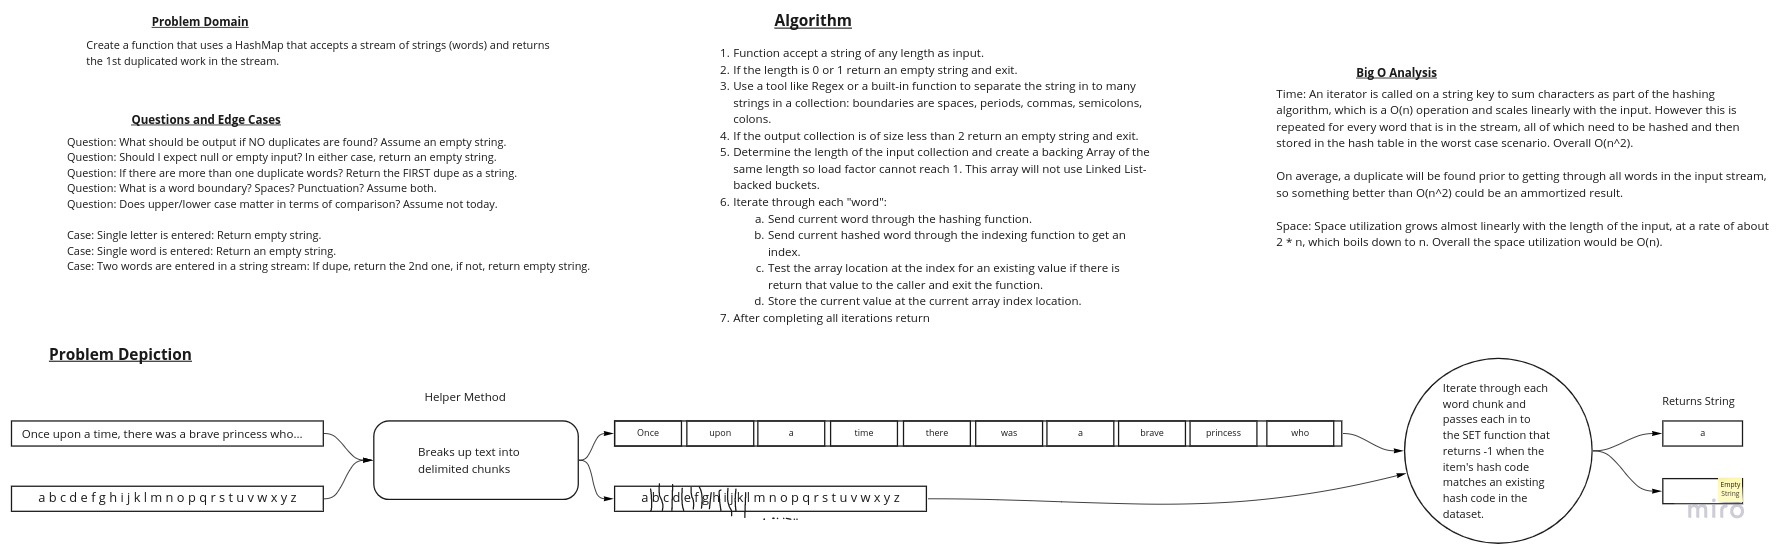
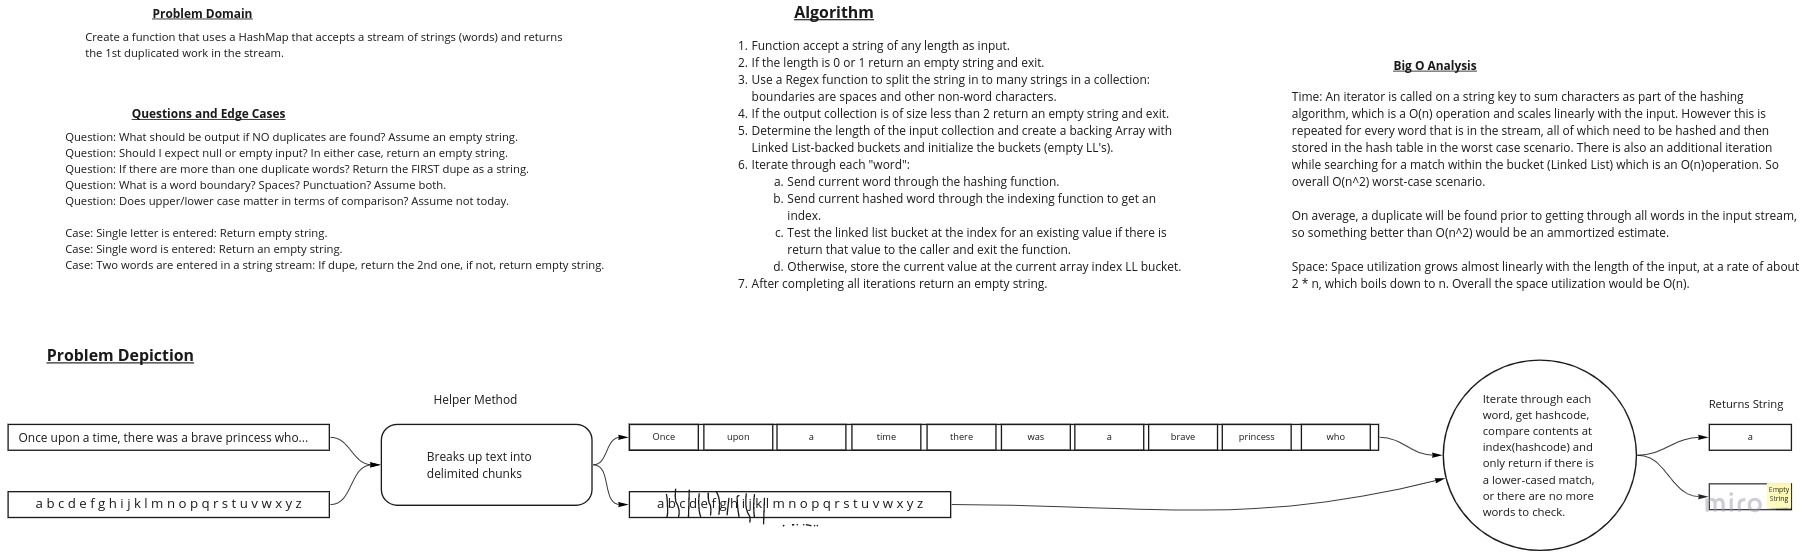
refactored repeated-word challenge to complete it.

diff --git a/java/datastructures/lib/src/main/java/simpleStringHashTable/SimpleStringHashTable.java b/java/datastructures/lib/src/main/java/simpleStringHashTable/SimpleStringHashTable.java
@@ -1,10 +1,12 @@
 package simpleStringHashTable;
 
 import java.util.ArrayList;
+import java.util.LinkedList;
+import java.util.Locale;
 
 public class SimpleStringHashTable {
 
-  private ArrayList<String> stringArray;
+  private ArrayList<LinkedList<String>> dataArray;
 
   private int capacity;
 
@@ -13,57 +15,58 @@ public class SimpleStringHashTable {
   private int primeMultiplier = 599;
 
   public SimpleStringHashTable() {
-    this.capacity = 11;
-    stringArray = new ArrayList<>(capacity);
   }
 
   public SimpleStringHashTable(int capacity) {
-    stringArray = new ArrayList<>(capacity);
     this.capacity = capacity;
+    initializeArray();
   }
 
-  public ArrayList<String> getStringArray() {
-    return stringArray;
+  private void initializeArray() {
+    this.dataArray = new ArrayList<>(this.capacity);
+
+    for(int idx=0; idx < capacity; idx++) {
+      this.dataArray.add(new LinkedList<>());
+    }
   }
 
-  public void setStringArray(ArrayList<String> stringArray) {
-    this.stringArray = stringArray;
-  }
-
-  public int getCapacity() {
-    return capacity;
-  }
-
-  public void setCapacity(int capacity) {
-    this.capacity = capacity;
-  }
-
-  public int getItemsCount() {
-    return itemsCount;
-  }
-
-  public void setItemsCount(int itemsCount) {
-    this.itemsCount = itemsCount;
-  }
-
-  public float getLoadFactor() {
-    return (float) this.itemsCount / (float) this.capacity;
-  }
-
+  /**
+   * Adds strings to a hashmap and returns the first duplicate string it encounters.
+   * @param string
+   * @return String
+   */
   public String repeatedWord(String string) {
-    if (string.length() <= 1) {
+    if (string.isEmpty() || string.length() == 1) {
       return "";
     }
 
-    String delimiters = "\\s,\\W";
+    String delimiters = "\\W";
     String[] wordList = string.split(delimiters);
 
-    if (wordList.length < 2 ) {
-      return string;
+    if (wordList.length < 2) {
+      return "";
     }
 
-    for(String word: wordList){
+    this.capacity = wordList.length;
+    this.initializeArray();
 
+    for (String word : wordList) {
+      String lcWord = word.toLowerCase(Locale.ROOT);
+      int hashedIdx = this.hash(lcWord);
+      LinkedList<String> tempLL = null;
+
+      try {
+        tempLL = this.dataArray.get(hashedIdx);
+        if (tempLL.contains(lcWord)) {
+          return word;
+        } else {
+          tempLL.add(lcWord);
+          this.itemsCount++;
+        }
+      } catch (Exception ex) {
+        // TODO: Add a logging mechanism
+        System.out.println("Friendly error message: Something went wrong while checking for duplicates in a bucket.");
+      }
     }
 
     return "";
@@ -97,4 +100,5 @@ public class SimpleStringHashTable {
 
     return charCodeSum;
   }
+
 }

diff --git a/java/datastructures/lib/src/test/java/simpleStringHashTable/SimpleStringHashTableTests.java b/java/datastructures/lib/src/test/java/simpleStringHashTable/SimpleStringHashTableTests.java
@@ -13,27 +13,57 @@ public class SimpleStringHashTableTests {
   // RepeatWord method tests
   @Test
   public void testRepeatWordReturnsEmptyStringWithEmptyInput() {
+    String expectedResult = "";
 
+    SimpleStringHashTable sut = new SimpleStringHashTable();
+    String actualResult = sut.repeatedWord("");
+
+    assertEquals(expectedResult, actualResult, "Empty string input should return empty string output.");
   }
 
   @Test
   public void testRepeatWordReturnsEmptyStringWithSingleLetterInput() {
+    String expectedResult = "";
+    String singleLetterInput = "j";
 
+    SimpleStringHashTable sut = new SimpleStringHashTable();
+    String actualResult = sut.repeatedWord(singleLetterInput);
+
+    assertEquals(expectedResult, actualResult, "Single letter input should return empty string output.");
   }
 
   @Test
   public void testRepeatWordReturnsEmptyStringWithSingleWordInput() {
+    String expectedResult = "";
+    String singleWordInput = "jon";
 
+    SimpleStringHashTable sut = new SimpleStringHashTable();
+    String actualResult = sut.repeatedWord(singleWordInput);
+
+    assertEquals(expectedResult, actualResult, "Single word input returns empty string output.");
   }
 
   @Test
   public void testRepeatWordReturnsFirstDuplicateWord() {
+    String expectedResult = "firstDuplicate";
+    String inputStream = "the firstDuplicate duplicate word should be returned as firstDuplicate";
 
+    SimpleStringHashTable sut = new SimpleStringHashTable();
+    String actualResult = sut.repeatedWord(inputStream);
+
+    assertEquals(expectedResult, actualResult, "First repeated word in a stream of Strings is returned.");
   }
 
   @Test
   public void testRepeatWordReturnsFirstDuplicateWordLargeInput() {
+    String expectedResult = "it";
+    String inputStream = "It was the best of times, it was the worst of times, it was the age of wisdom, it was the age of foolishness, it was the epoch of belief, it was the epoch of incredulity, it was the season of Light, it was the season of Darkness, it was the spring of hope, it was the winter of despair, we had everything before us, we had nothing before us, we were all going direct to Heaven, we were all going direct the other way – in short, the period was so far like the present period, that some of its noisiest authorities insisted on its being received, for good or for evil, in the superlative degree of comparison only...";
 
+    SimpleStringHashTable sut = new SimpleStringHashTable();
+    String actualResult = sut.repeatedWord(inputStream);
+
+    assertEquals(expectedResult, actualResult, "Large input stream should still find and return the first " +
+      "duplicate. For this input the method should return \"it\".");
   }
 
   // Hash method tests

diff --git a/java/datastructures/lib/src/main/java/treeIntersections/TreeIntersections.java b/java/datastructures/lib/src/main/java/treeIntersections/TreeIntersections.java
@@ -1,0 +1,13 @@
+package treeIntersections;
+
+import simpleStringHashTable.SimpleStringHashTable;
+
+import java.util.ArrayList;
+
+public class TreeIntersections<T> {
+
+  public ArrayList<Integer> tree_intersection(T leftTree, T rightTree) {
+    SimpleStringHashTable s = new SimpleStringHashTable();
+    return new ArrayList<>();
+  }
+}

diff --git a/java/datastructures/lib/src/test/java/treeIntersections/TreeIntersectionsTests.java b/java/datastructures/lib/src/test/java/treeIntersections/TreeIntersectionsTests.java
@@ -1,0 +1,4 @@
+package treeIntersections;
+
+public class TreeIntersectionsTests {
+}

diff --git a/java/datastructures/res/hashtables/hashmap-repeated-word-README.md b/java/datastructures/res/hashtables/hashmap-repeated-word-README.md
@@ -32,28 +32,38 @@ Ensure your tests are passing before you submit your solution.
 
 Approach:
 
-Ensure the size of the underlying array is such that collisions are unlikely *except for instances where the words are
-indeed duplicates*, in which case detection of duplicate words in a stream will be easy. A load factor calculation is
-implemented to verify it is less than 1 even when duplicates are found.
+Implement a Hash Table with a hashing function and Chaining using Linked Lists that will store items and simplify
+discovering when an item is a duplicate.
 
 Leverage String functions and a RegEx to split the input stream into separate "words" between non-word characters.
 
-Implement a simple hashing algorithm that will sum the Char values of each character in each word and use modulus
+Initialize the array with null-valued Linked Lists, one in each bucket, to avoid thrown Exceptions and to enable
+hash collisions between different words/inputs.
+
+Implement a simple hashing algorithm that will multiply the Char values of each character in each word and use modulus
 to ensure the resulting index is bound to the size of the underlying storage array.
 
 Short-circuit to returning a result as quickly as possible in all cases where it is appropriate to do so.
 
-Time Effeciency:
+Time Efficiency:
 
 An iterator is called on a string key to sum characters as part of the hashing algorithm, an O(n) operation.
-This iterator is called once for every word in the input stream which points to an overall O(n^2).
+This iterator is called once for every word in the input stream which points to an overall O(n^2). Searching for a
+duplicate value requires traversing the Bucket's linked list, which in a worst-case scenario is an O(n) operation,
+and that occurs whenever there is a collision which in the worst case scenario would happen with a very large input
+data set.
+
 Since the method exits as soon as a duplicate is found, the short-circuit effect will be reduced in the average
-scenario. Worst-case scenario however, will ben an O(n^2) performance in time.
+scenario. Still, the worst-case scenario boils-down to a significant O(n^2) performance in time.
 
-Space Effeciency:
+Space Efficiency:
 
-Space utilization grows almost linearly with the length of the input at a rate of about 2 * n.
-Since 2n boils down to n, the overall space utilization would be O(n).
+Space utilization grows exponentially at first, as an array is initialized and Linked Lists are created to match the
+size of the input stream. This results in O(n^2) space utilization. After this initialization, there is a 1/k chance
+that a Linked List will add a node (which is an O(n) operation until the load factor is about 1. After that every
+added item will result in an O(n) add to the linked list, but the increase is still linear.
+
+Boiling this down to the most significant denominator in a worst-case scenario, overall space efficiency is O(n^2).
 
 ## Solution
 
